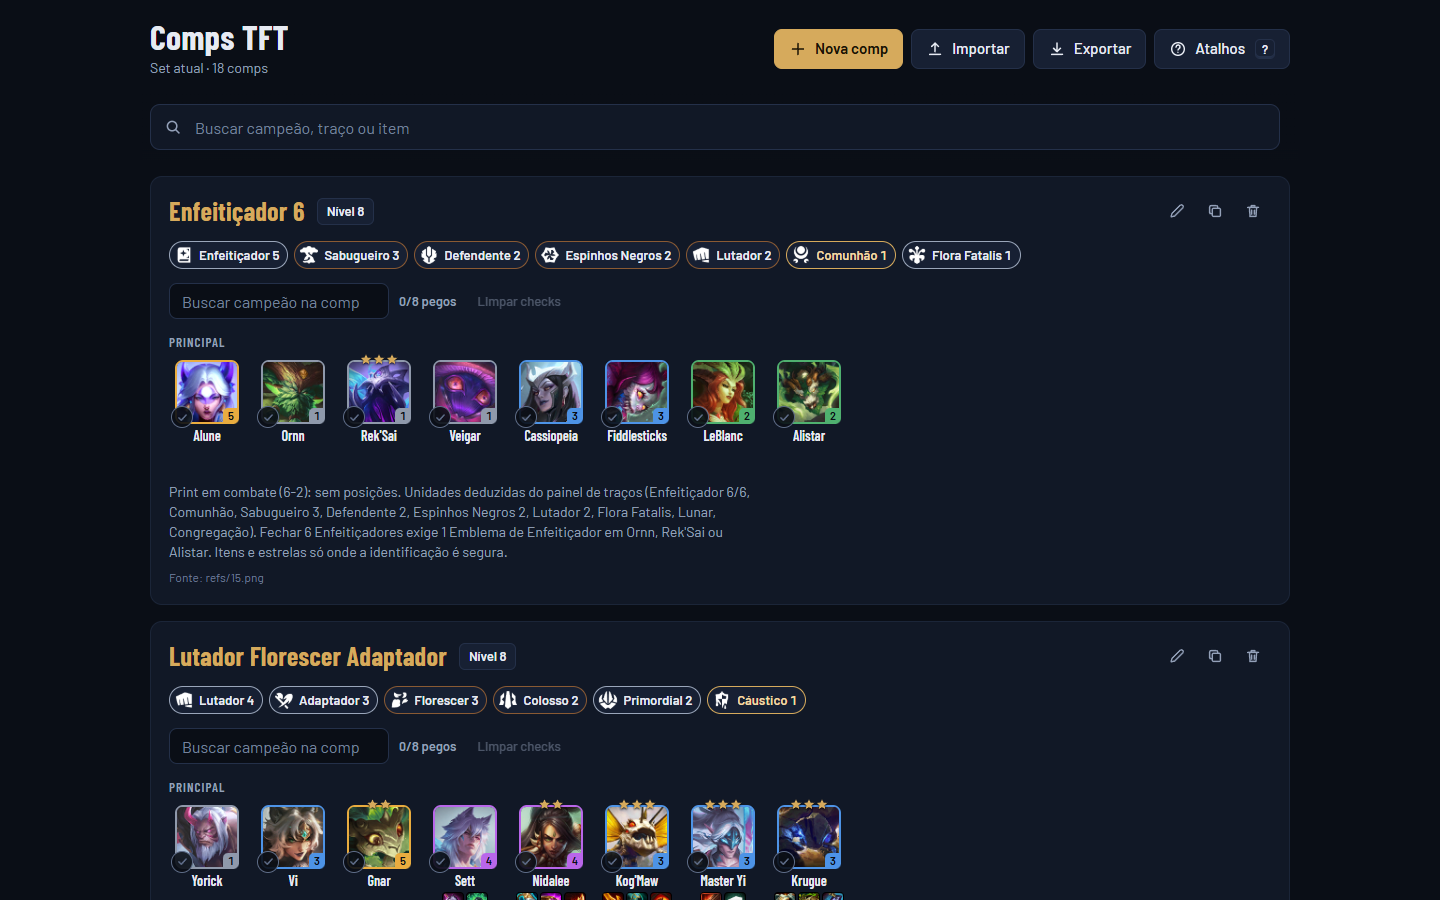
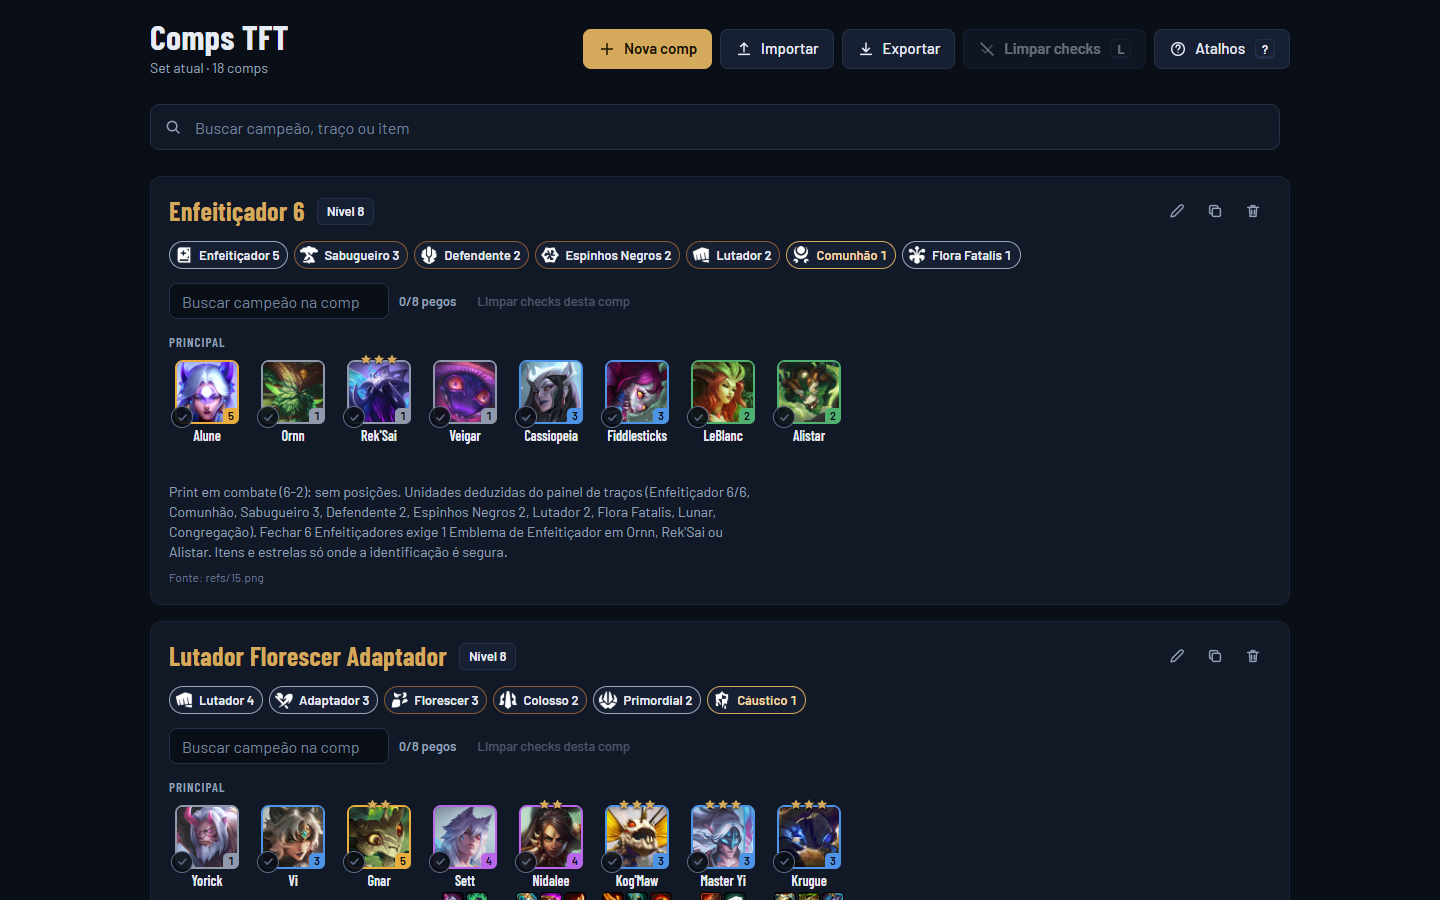
[cc] Add global Clear checks button (key L, with confirm) and per-comp label; picks only

Changed region(s): [[0.4062, 0.0311, 0.7812, 0.0933], [0.4062, 0.8089, 0.4375, 0.84], [0.4062, 0.3111, 0.4375, 0.3422]]

diff --git a/qa/qa.js b/qa/qa.js
@@ -162,6 +162,58 @@ async function run(label, viewport, mobile) {
   await page.reload();
   await page.waitForSelector('article.comp');
   ok(`[${label}] limpar persiste apos recarregar`, (await c8().locator('.pcount').textContent()) === `0/${total8} pegos`);
+
+  // limpar checks global
+  const gbtn = page.locator('#btn-clear-all');
+  const picked = () => page.locator('.unit.picked').count();
+  const compsJson = () => page.evaluate(() => localStorage.getItem('tft-comps:v1'));
+  ok(`[${label}] Limpar checks global desabilitado sem checks`, await gbtn.isDisabled());
+  ok(`[${label}] Limpar checks global visivel no topo`, await gbtn.isVisible(), (await gbtn.boundingBox()).width + 'px');
+  await c8().scrollIntoViewIfNeeded();
+  await pickBtn(0).click();
+  await pickBtn(1).click();
+  await page.locator('article.comp').first().locator('button.pick').first().click();
+  await page.locator('article.comp').nth(3).locator('button.pick').nth(2).click();
+  ok(`[${label}] global habilita ao marcar check`, await gbtn.isEnabled() && (await picked()) === 4);
+  const comp0 = page.locator('article.comp').first();
+  ok(`[${label}] botao por comp so ativo na comp com check`, await comp0.locator('[data-act="clear-comp"]').isEnabled() && await page.locator('article.comp').nth(1).locator('[data-act="clear-comp"]').isDisabled());
+  const before = await compsJson();
+  await page.screenshot({ path: path.join(OUT, `${label}-10-limpar-global-antes.png`) });
+  await gbtn.click();
+  ok(`[${label}] global pede confirmacao`, await page.locator('#ask').evaluate((d) => d.open) && /4 campe/.test(await page.locator('#ask-text').textContent()) && /3 comps/.test(await page.locator('#ask-text').textContent()), await page.locator('#ask-text').textContent());
+  await page.screenshot({ path: path.join(OUT, `${label}-11-limpar-global-confirma.png`) });
+  await page.locator('#ask-actions button', { hasText: 'Cancelar' }).click();
+  ok(`[${label}] cancelar global mantem checks`, (await picked()) === 4 && await gbtn.isEnabled());
+  await comp0.locator('[data-act="clear-comp"]').click();
+  ok(`[${label}] limpar por comp zera so ela e atualiza global`, (await picked()) === 3 && await gbtn.isEnabled());
+  await gbtn.click();
+  await page.locator('#ask-actions button', { hasText: 'Limpar checks' }).click();
+  ok(`[${label}] confirmar global zera todas as comps`, (await picked()) === 0 && await gbtn.isDisabled() && (await c8().locator('.pcount').textContent()) === `0/${total8} pegos`);
+  ok(`[${label}] limpar global nao altera as comps`, (await compsJson()) === before && (await page.locator('article.comp').count()) === 18);
+  await page.reload();
+  await page.waitForSelector('article.comp');
+  ok(`[${label}] global persiste zerado apos recarregar`, (await picked()) === 0 && await gbtn.isDisabled() && (await page.evaluate((k) => JSON.parse(localStorage.getItem(k)).checks, PK)) !== null && Object.keys(await page.evaluate((k) => JSON.parse(localStorage.getItem(k)).checks, PK)).length === 0);
+  await page.locator('body').click({ position: { x: 5, y: 5 } });
+  await page.keyboard.press('l');
+  ok(`[${label}] atalho L sem checks nao abre confirmacao`, !(await page.locator('#ask').evaluate((d) => d.open)));
+  await page.locator('article.comp').first().locator('button.pick').first().click();
+  await page.locator('article.comp').first().locator('.cq').click();
+  await page.keyboard.press('l');
+  ok(`[${label}] atalho L ignorado ao digitar`, !(await page.locator('#ask').evaluate((d) => d.open)) && (await page.locator('article.comp').first().locator('.cq').inputValue()) === 'l');
+  await page.locator('article.comp').first().locator('.cq').fill('');
+  await page.locator('body').click({ position: { x: 5, y: 5 } });
+  await page.keyboard.press('L');
+  ok(`[${label}] atalho L abre confirmacao`, await page.locator('#ask').evaluate((d) => d.open));
+  await page.keyboard.press('Escape');
+  ok(`[${label}] Esc cancela e mantem check`, !(await page.locator('#ask').evaluate((d) => d.open)) && (await picked()) === 1);
+  await page.keyboard.press('L');
+  await page.locator('#ask-actions button', { hasText: 'Limpar checks' }).click();
+  ok(`[${label}] atalho L + confirmar zera`, (await picked()) === 0 && await gbtn.isDisabled());
+  await page.keyboard.press('?');
+  ok(`[${label}] ajuda documenta atalho L`, (await page.locator('#help').innerText()).includes('Limpa os checks'));
+  await page.keyboard.press('?');
+  const ovf = await page.evaluate(() => document.documentElement.scrollWidth - document.documentElement.clientWidth);
+  ok(`[${label}] topo sem rolagem horizontal com botao novo`, ovf <= 0, 'overflow=' + ovf);
   await page.evaluate((k) => localStorage.setItem(k, '{lixo'), PK);
   await page.reload();
   await page.waitForSelector('article.comp');

diff --git a/js/app.js b/js/app.js
@@ -90,6 +90,21 @@
     }
   }
 
+  function updateClearAll() {
+    $('#btn-clear-all').disabled = L.summarizeChecks(state.picks).checks === 0;
+  }
+
+  async function clearAllPicks() {
+    const { checks, comps } = L.summarizeChecks(state.picks);
+    if (!checks) return;
+    const ok = await ask('Limpar checks', 'Desmarcar ' + checks + (checks === 1 ? ' campeão' : ' campeões') + ' em ' + comps + (comps === 1 ? ' comp' : ' comps') + '? As comps não mudam.', [CANCEL, { label: 'Limpar checks', value: true, kind: 'danger' }]);
+    if (!ok) return;
+    state.picks = L.clearAllChecks(state.picks);
+    savePicks();
+    render();
+    toast('Checks limpos.');
+  }
+
   function syncExcluidos() {
     const have = new Set(state.comps.map((c) => c.id));
     state.excluidos = SEED.map((c) => c.id).filter((id) => !have.has(id));
@@ -206,13 +221,14 @@
       el.append(groups);
     } else {
       const count = h('span', { class: 'pcount', 'aria-live': 'polite' });
-      const clear = h('button', { type: 'button', class: 'btn ghost sm', onclick: () => { state.picks = L.clearChecks(state.picks, comp.id); savePicks(); fill(); } }, 'Limpar checks');
+      const clear = h('button', { type: 'button', class: 'btn ghost sm', 'data-act': 'clear-comp', onclick: () => { state.picks = L.clearChecks(state.picks, comp.id); savePicks(); fill(); } }, 'Limpar checks desta comp');
       const input = h('input', { type: 'search', class: 'cq', autocomplete: 'off', spellcheck: 'false', maxlength: '40', placeholder: 'Buscar campeão na comp', 'aria-label': 'Buscar campeão em ' + comp.nome, value: state.compQuery.get(comp.id) || '' });
       const updateCount = () => {
         const { done, total } = L.countChecked(state.picks, comp);
         count.textContent = done + '/' + total + ' pegos';
         count.classList.toggle('done', done === total);
         clear.disabled = done === 0;
+        updateClearAll();
       };
       const unit = (u) => unitEl(u, hits, {
         on: L.isChecked(state.picks, comp.id, u.c),
@@ -258,6 +274,7 @@
     $('#btn-clear').hidden = !q;
     $('#empty').hidden = res.length > 0;
     $('#empty').textContent = state.comps.length ? 'Nenhuma comp encontrada para essa busca.' : 'Nenhuma comp salva. Crie uma em “Nova comp” ou restaure as originais em Atalhos.';
+    updateClearAll();
   }
 
   /* ---------- dialogs genericos ---------- */
@@ -528,6 +545,7 @@
     $('#btn-clear').addEventListener('click', () => { state.query = ''; $('#q').value = ''; render(); $('#q').focus(); });
     $('#btn-new').addEventListener('click', () => openEditor(null));
     $('#btn-help').addEventListener('click', toggleHelp);
+    $('#btn-clear-all').addEventListener('click', clearAllPicks);
     $('#help-close').addEventListener('click', () => $('#help').close());
     $('#btn-export').addEventListener('click', exportJson);
     $('#btn-import').addEventListener('click', () => $('#file').click());
@@ -562,6 +580,7 @@
       if (typing(e.target) || document.querySelector('dialog[open]')) return;
       if (e.key === '/') { e.preventDefault(); $('#q').focus(); }
       else if (e.key === 'n' || e.key === 'N') { e.preventDefault(); openEditor(null); }
+      else if (e.key === 'l' || e.key === 'L') { e.preventDefault(); clearAllPicks(); }
     });
   }
 

diff --git a/index.html b/index.html
@@ -32,6 +32,7 @@
   <symbol id="i-x" viewBox="0 0 20 20"><path d="M5 5l10 10M15 5L5 15" fill="none" stroke="currentColor" stroke-width="1.8" stroke-linecap="round"/></symbol>
   <symbol id="i-hex" viewBox="0 0 20 20"><path d="M10 2.5l6.5 3.75v7.5L10 17.5l-6.5-3.75v-7.5z" fill="none" stroke="currentColor" stroke-width="1.6" stroke-linejoin="round"/></symbol>
   <symbol id="i-check" viewBox="0 0 20 20"><path d="M4.5 10.5l3.7 3.7 7.3-8" fill="none" stroke="currentColor" stroke-width="2.4" stroke-linecap="round" stroke-linejoin="round"/></symbol>
+  <symbol id="i-uncheck" viewBox="0 0 20 20"><path d="M4.5 10.5l3.7 3.7 7.3-8" fill="none" stroke="currentColor" stroke-width="1.8" stroke-linecap="round" stroke-linejoin="round" opacity=".55"/><path d="M3.5 3.5l13 13" fill="none" stroke="currentColor" stroke-width="1.8" stroke-linecap="round"/></symbol>
   <symbol id="i-star" viewBox="0 0 20 20"><path d="M10 1.8l2.4 5.2 5.6.6-4.2 3.8 1.2 5.5L10 14.1l-5 2.8 1.2-5.5L2 7.6l5.6-.6z" fill="currentColor"/></symbol>
 </svg>
 
@@ -44,6 +45,7 @@
     <button type="button" class="btn primary" id="btn-new"><svg class="ic"><use href="#i-plus"/></svg><span>Nova comp</span></button>
     <button type="button" class="btn" id="btn-import"><svg class="ic"><use href="#i-up"/></svg><span>Importar</span></button>
     <button type="button" class="btn" id="btn-export"><svg class="ic"><use href="#i-down"/></svg><span>Exportar</span></button>
+    <button type="button" class="btn" id="btn-clear-all" aria-label="Limpar todos os checks" title="Limpar todos os checks (L)" disabled><svg class="ic"><use href="#i-uncheck"/></svg><span>Limpar checks</span><kbd>L</kbd></button>
     <button type="button" class="btn" id="btn-help" aria-haspopup="dialog"><svg class="ic"><use href="#i-help"/></svg><span>Atalhos</span><kbd>?</kbd></button>
   </div>
 </header>
@@ -146,9 +148,10 @@
       <div><dt><kbd>?</kbd></dt><dd>Abre e fecha esta ajuda.</dd></div>
       <div><dt><kbd>/</kbd></dt><dd>Foca a busca.</dd></div>
       <div><dt><kbd>N</kbd></dt><dd>Cria uma nova comp.</dd></div>
+      <div><dt><kbd>L</kbd></dt><dd>Limpa os checks “já peguei” de todas as comps (pede confirmação). Desativado quando não há checks.</dd></div>
       <div><dt><kbd>Esc</kbd></dt><dd>Fecha a janela aberta.</dd></div>
       <div><dt>Busca na comp</dt><dd>O campo dentro de cada comp mostra só os campeões dela que batem com o texto. A busca do topo continua separada.</dd></div>
-      <div><dt>Check no campeão</dt><dd>Marca “já peguei” (principal e flex). O contador mostra quantos faltam e “Limpar checks” zera a comp para a próxima partida.</dd></div>
+      <div><dt>Check no campeão</dt><dd>Marca “já peguei” (principal e flex). O contador mostra quantos faltam e “Limpar checks desta comp” zera só ela. “Limpar checks” no topo zera todas as comps para a próxima partida.</dd></div>
     </dl>
     <h3>Dados</h3>
     <p class="small">As comps e os checks ficam salvos só neste navegador (os checks não vão no arquivo exportado). Use Exportar para guardar um arquivo JSON e Importar para trazer de volta.</p>

diff --git a/js/logic.js b/js/logic.js
@@ -164,6 +164,20 @@
     return next;
   }
 
+  function clearAllChecks() {
+    return {};
+  }
+
+  function summarizeChecks(checks) {
+    let n = 0;
+    let comps = 0;
+    Object.keys(checks || {}).forEach((k) => {
+      const list = Array.isArray(checks[k]) ? checks[k] : [];
+      if (list.length) { n += list.length; comps++; }
+    });
+    return { checks: n, comps };
+  }
+
   function countChecked(checks, comp) {
     const ids = new Set(allUnits(comp).map((u) => u.c));
     let done = 0;
@@ -314,7 +328,7 @@
     return { comps: list.concat(back), seedVersao: Math.max(seen, seedVersion), excluidos, added: added.map((c) => c.id), positioned };
   }
 
-  const api = { ROWS, COLS, MAX_ITEMS, MAX_ALT, norm, indexCatalog, activeTraits, searchComps, filterUnits, sanitizeChecks, isChecked, toggleCheck, clearChecks, countChecked, duplicateComp, sanitizeImport, mergeSeed, newId, clone };
+  const api = { ROWS, COLS, MAX_ITEMS, MAX_ALT, norm, indexCatalog, activeTraits, searchComps, filterUnits, sanitizeChecks, isChecked, toggleCheck, clearChecks, clearAllChecks, summarizeChecks, countChecked, duplicateComp, sanitizeImport, mergeSeed, newId, clone };
   root.TFTLogic = api;
   if (typeof module !== 'undefined' && module.exports) module.exports = api;
 })(typeof window !== 'undefined' ? window : globalThis);

diff --git a/tests/logic.test.js b/tests/logic.test.js
@@ -285,6 +285,27 @@ test('clearChecks limpa so a comp pedida', () => {
   assert.deepEqual(L.clearChecks(s, 'nada'), s);
 });
 
+test('clearAllChecks zera todas as comps sem mutar o estado anterior', () => {
+  const s = { k1: ['A', 'B'], k2: ['A'] };
+  assert.deepEqual(L.clearAllChecks(s), {});
+  assert.deepEqual(s, { k1: ['A', 'B'], k2: ['A'] });
+  assert.deepEqual(L.clearAllChecks({}), {});
+  assert.deepEqual(L.clearAllChecks(null), {});
+});
+
+test('summarizeChecks conta checks e comps com check (inclui ids fora da comp)', () => {
+  assert.deepEqual(L.summarizeChecks({}), { checks: 0, comps: 0 });
+  assert.deepEqual(L.summarizeChecks(null), { checks: 0, comps: 0 });
+  assert.deepEqual(L.summarizeChecks({ k1: ['A', 'B'], k2: ['A'], k3: [] }), { checks: 3, comps: 2 });
+});
+
+test('limpar tudo nao toca nas comps nem no save das comps', () => {
+  const comps = [pickComp];
+  const before = JSON.stringify(comps);
+  L.clearAllChecks({ k1: ['A'] });
+  assert.equal(JSON.stringify(comps), before);
+});
+
 test('countChecked conta main+flex, ignora ids que nao estao na comp e duplicados', () => {
   assert.deepEqual(L.countChecked({}, pickComp), { done: 0, total: 5 });
   assert.deepEqual(L.countChecked({ k1: ['A', 'D', 'ZZ'] }, pickComp), { done: 2, total: 5 });

diff --git a/README.md b/README.md
@@ -7,9 +7,9 @@ Mini sistema pessoal de composições de Teamfight Tactics (set atual). HTML/CSS
 - Servidor local: `python -m http.server 8765` dentro desta pasta e abrir `http://127.0.0.1:8765/index.html`.
 - Também funciona com duplo clique em `index.html` (testado via `file://`).
 
-Recursos: lista de comps com traços ativos (calculados dos campeões e emblemas), campeões com custo e estrelas alvo, itens principais e alternativos (borda tracejada), flex, tabuleiro hex 4x7, busca por campeão/traço/item, editar/duplicar/excluir, exportar/importar JSON, atalhos com `?`. Cada comp tem busca própria de campeão e check "já peguei" por campeão, com contador e "Limpar checks". Dados ficam em `localStorage` (`tft-comps:v1`, com `seedVersao` e `excluidos`); os checks ficam em outra chave (`tft-comps:picks:v1`) e não entram no export.
+Recursos: lista de comps com traços ativos (calculados dos campeões e emblemas), campeões com custo e estrelas alvo, itens principais e alternativos (borda tracejada), flex, tabuleiro hex 4x7, busca por campeão/traço/item, editar/duplicar/excluir, exportar/importar JSON, atalhos com `?`. Cada comp tem busca própria de campeão e check "já peguei" por campeão, com contador e "Limpar checks desta comp" (direto, ativo só se a comp tem check). O botão "Limpar checks" no topo (tecla `L`) desmarca os checks de todas as comps, com confirmação, e fica desativado sem checks; só mexe nos picks, nunca nas comps. Dados ficam em `localStorage` (`tft-comps:v1`, com `seedVersao` e `excluidos`); os checks ficam em outra chave (`tft-comps:picks:v1`) e não entram no export.
 
-Atalhos do app: `?` ajuda, `/` busca, `N` nova comp, `Esc` fecha.
+Atalhos do app: `?` ajuda, `/` busca, `N` nova comp, `L` limpar todos os checks (pede confirmação), `Esc` fecha. `/`, `N` e `L` são ignorados enquanto digita ou com janela aberta.
 
 ## Dados
 
